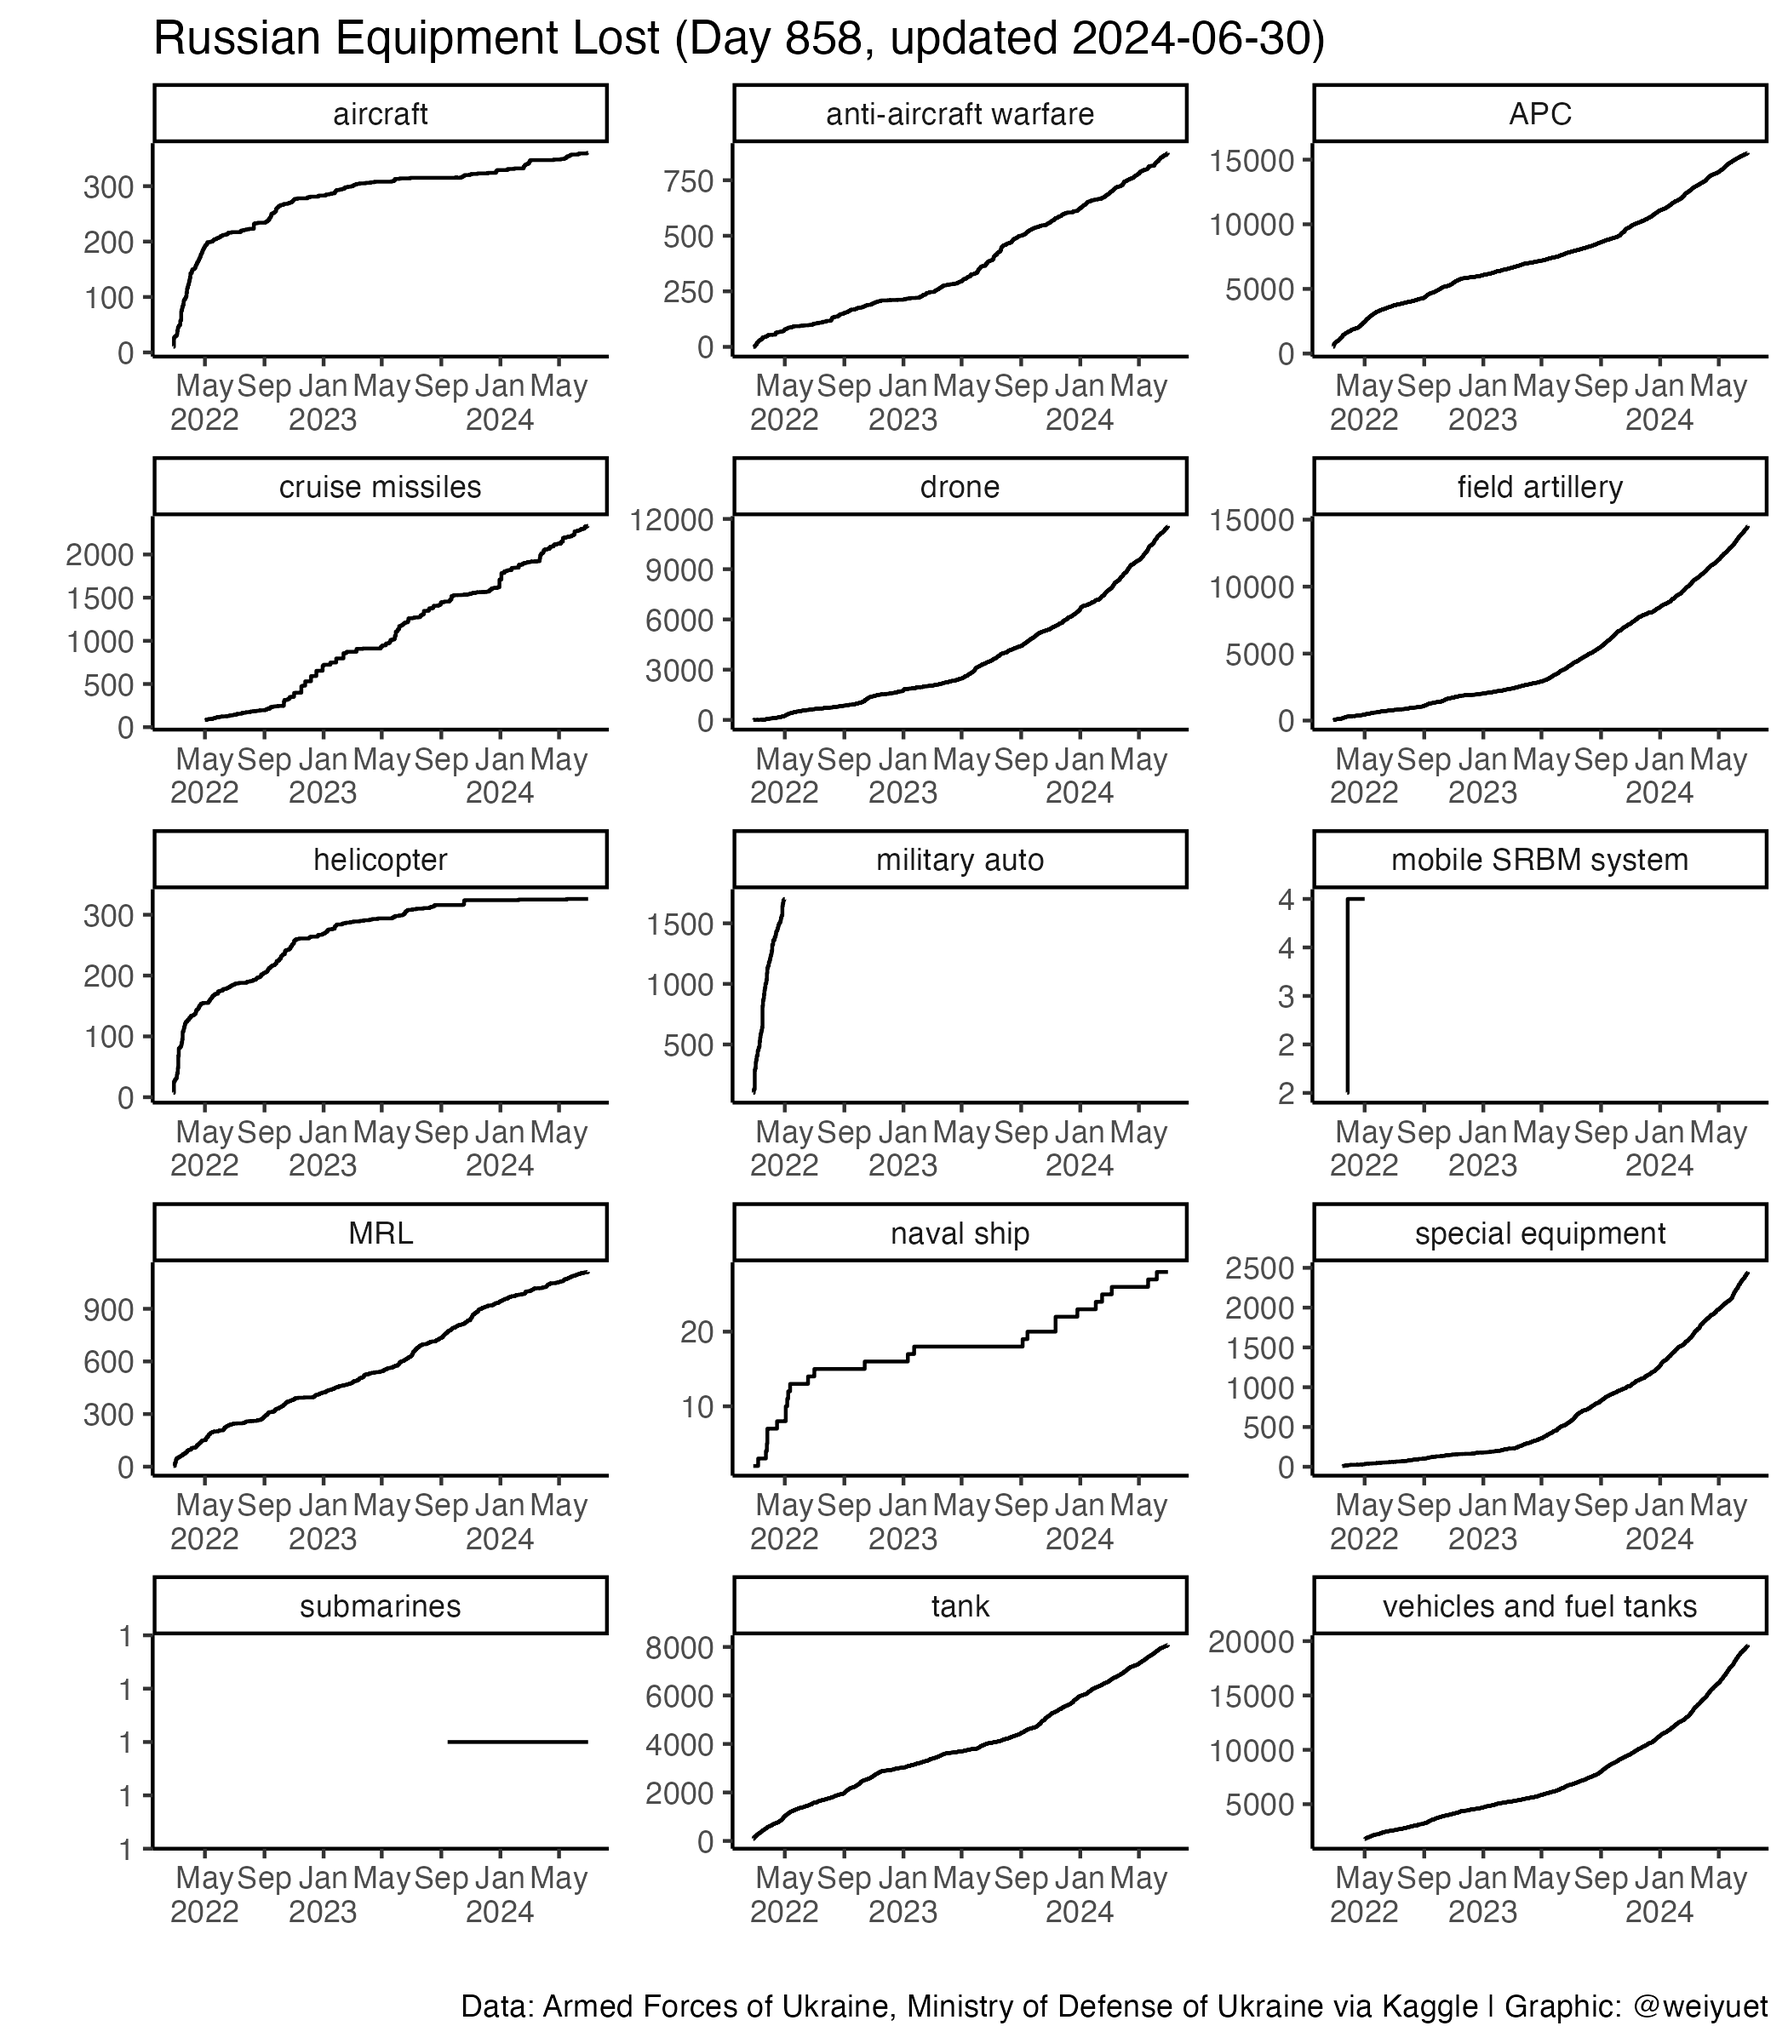
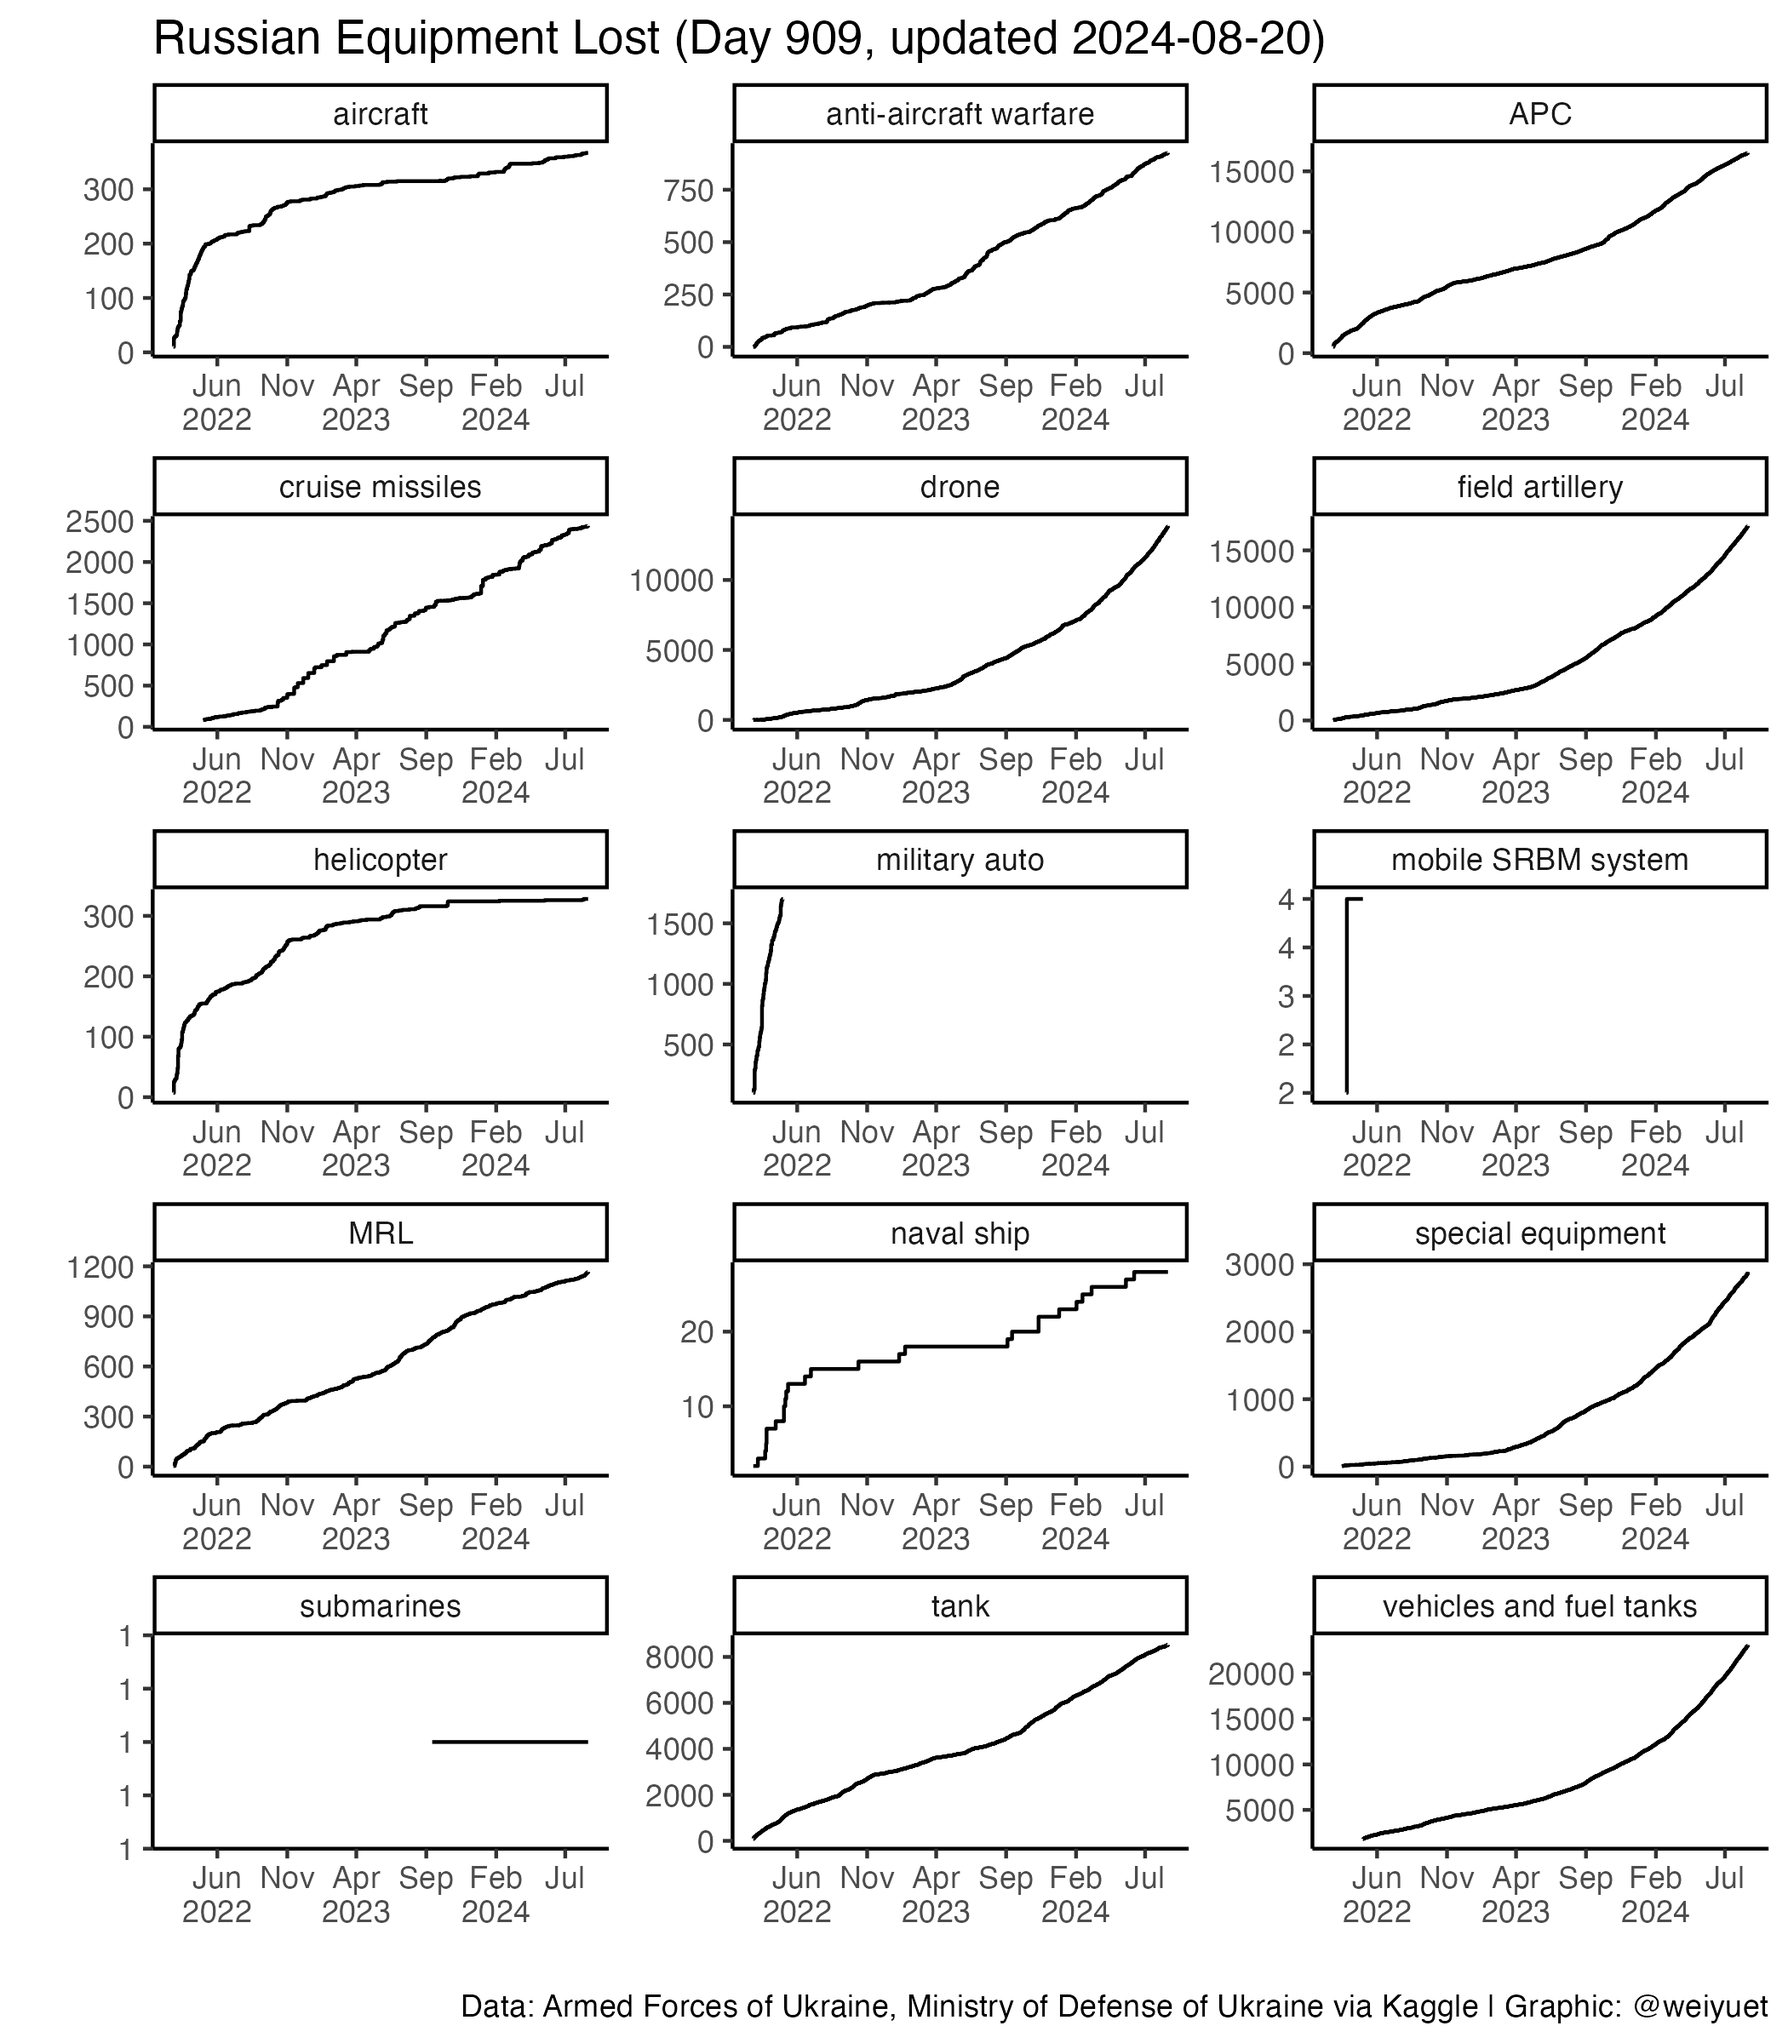
Updated 20 August

diff --git a/README.md b/README.md
@@ -6,7 +6,7 @@ Wong Wei Yuet 2022-05-26
 
   - War casualty data updated weekly from [`Petro Ivanyuk's Kaggle`](https://www.kaggle.com/datasets/piterfm/2022-ukraine-russian-war). All data is official and put together by `Petro`
 
-Updated: 2024-07-07
+Updated: 2024-08-20
 
 ## Summary of Conflict
 
